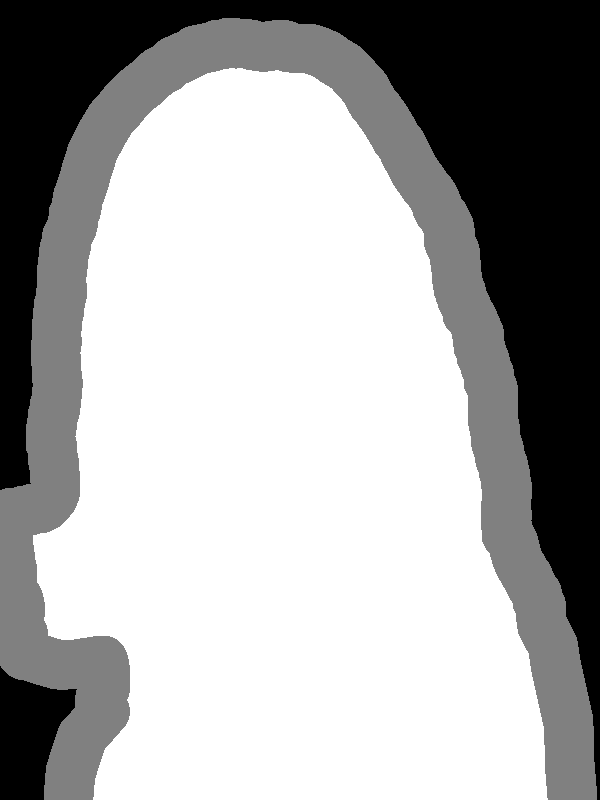
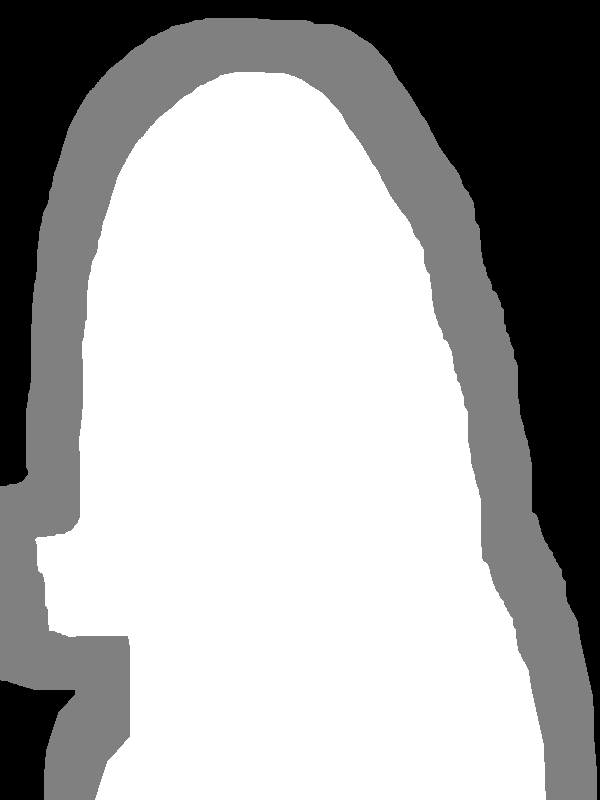
windows executable version

diff --git a/data/gen_trimap.py b/data/gen_trimap.py
@@ -12,10 +12,10 @@ def get_args():
     print(args)
     return args
 
-def erode_dilate(msk, struc="ELLIPSE", size=(10, 10)):
+def erode_dilate(msk, struc="ELLIPSE", size=(1, 1)):
     if struc == "RECT":
         kernel = cv2.getStructuringElement(cv2.MORPH_RECT, size)
-    elif struc == "CORSS":
+    elif struc == "CROSS":
         kernel = cv2.getStructuringElement(cv2.MORPH_CROSS, size)
     else:
         kernel = cv2.getStructuringElement(cv2.MORPH_ELLIPSE, size)
@@ -27,7 +27,7 @@ def erode_dilate(msk, struc="ELLIPSE", size=(10, 10)):
 
     dilated = cv2.dilate(msk, kernel, iterations=1) * 255
     eroded = cv2.erode(msk, kernel, iterations=1) * 255
-
+    
     cnt1 = len(np.where(msk >= 0)[0])
     cnt2 = len(np.where(msk == 0)[0])
     cnt3 = len(np.where(msk == 1)[0])
@@ -54,19 +54,19 @@ def erode_dilate(msk, struc="ELLIPSE", size=(10, 10)):
 
 def main():
     #args = get_args()
-    f = open('./data/list.txt')
+    f = open('.\\data\\list.txt')
     names = f.readlines()
     print("Images Count: {}".format(len(names)))
     for name in names:
-        img_name = './data/mattedimage' + "/" + name.strip() + ".png"
+        img_name = '.\\data\\mattedimage' + "\\" + name.strip() + ".png"
         print(img_name)
-        msk_name = './data/mask' + "/" + name.strip() + ".png"
-        trimap_name = './data/' + "/trimap/" + name.strip() + ".png"
+        msk_name = '.\\data\\mask' + "\\" + name.strip() + ".png"
+        trimap_name = '.\\data\\' + "\\trimap\\" + name.strip() + ".png"
         
-        img = cv2.imread(img_name, cv2.IMREAD_UNCHANGED) 
+        img = cv2.imread(img_name, cv2.IMREAD_UNCHANGED)
         alpha = img[:,:,3] # alpha map
         print("Write to {}".format(msk_name))
-        cv2.imwrite(msk_name, alpha) 
+        cv2.imwrite(msk_name, alpha)
         ret,alpha = cv2.threshold(alpha,127,255,cv2.THRESH_BINARY) # make alpha value 0 or 255
         trimap = erode_dilate(alpha, size=(50,50)) # generate trimap from alpha map
         cv2.imshow('alpha', alpha)

diff --git a/model/network.py b/model/network.py
@@ -49,9 +49,4 @@ class net(nn.Module):
 
         return trimap, alpha_p
 
-
-
-
-
-
-
+        
